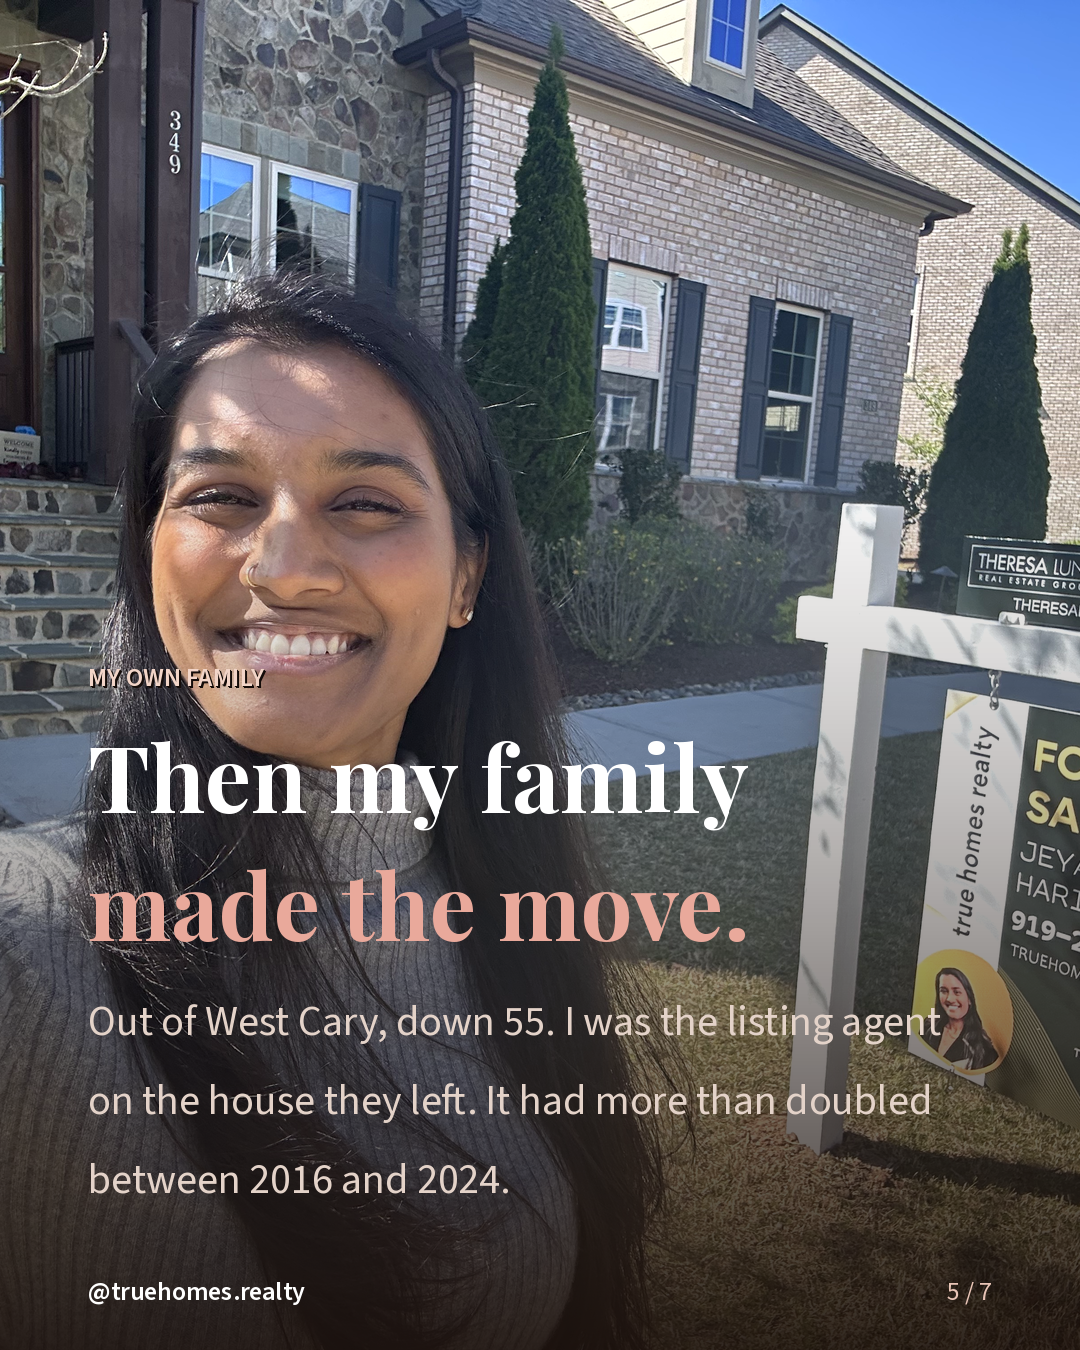
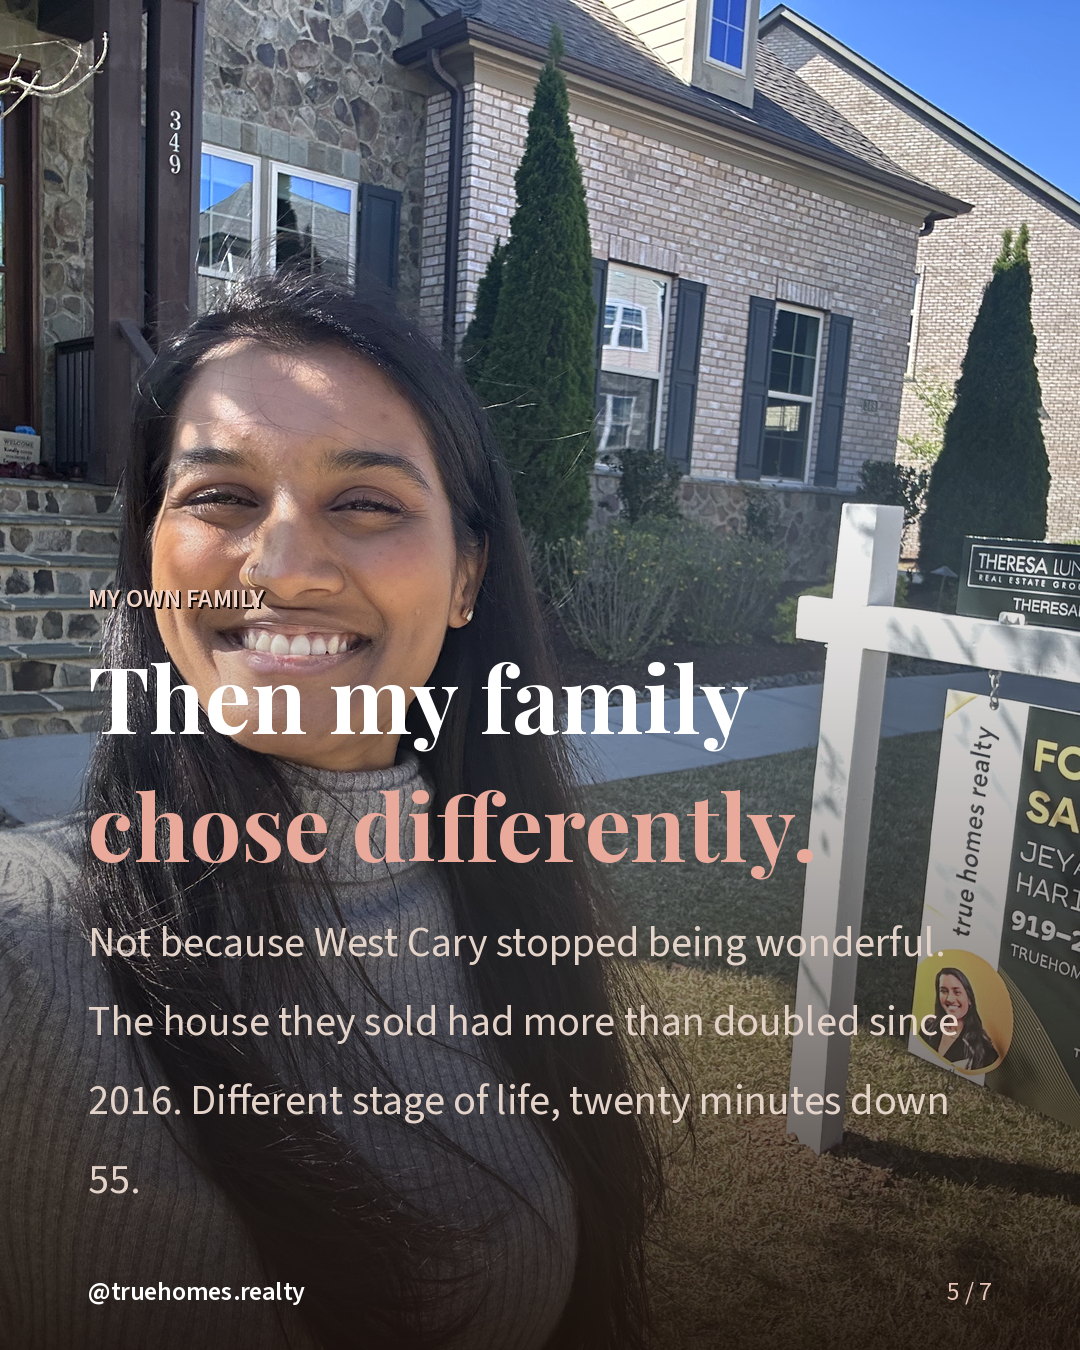
Never frame one town as the consolation prize for another
The Highway 55 draft implicitly cast West Cary as the place people leave. That
is wrong on the facts and wrong for the business — Cary is high quality, high
cost and highly coveted, especially West Cary, and she actively wants Cary
clients.

Adds a voice rule to config/brand.json and the carousel skill: every market
gets its strengths told on its own terms, movement is a different stage or fit
rather than an escape, and comparative put-downs are banned outright. It is a
business rule first and a Fair Housing one second, since running down whole
areas by comparison edges toward steering.

Carousel copy follows: slide 4 becomes "West Cary earned it", slide 5 reframes
the move as choosing differently rather than leaving, and the CTA now serves
people staying in Cary as readily as people looking down the corridor.

Also softens the knowledge base entry on Cary Towne Center so it reads as one
site that stalled rather than a mark against the town, which kept growing
straight through it.

Changed region(s): [[0.0611, 0.4356, 0.8861, 0.7156], [0.0917, 0.8089, 0.8861, 0.9022], [0.0611, 0.7467, 0.8861, 0.7778]]

diff --git a/knowledge/triangle-development.md b/knowledge/triangle-development.md
@@ -21,6 +21,13 @@ buildings, jobs and money. None of them may be turned into a claim about who a
 place is *for*. Growth, infrastructure and amenities — never demographics.
 Note especially that this file contains **no school-quality material**, by design.
 
+**No town is the consolation prize.** Every market here gets its own strengths
+told on their own terms. Cary is high quality, high cost and highly coveted —
+especially West Cary — and she actively wants Cary clients, so Cary is never
+the "before" in a before-and-after. Movement along the corridor is a different
+stage or a different fit, never an escape or a downgrade. Beyond being wrong
+commercially, comparative put-downs of whole areas edge toward steering.
+
 ---
 
 ## 1. The thirty-year arc
@@ -65,7 +72,7 @@ but not built* matters more than what is standing today.
   cited gap. `[V]`
 - **Cary median home price ≈ $580,000** as of early 2026, up modestly on
   2025. `[V]`
-- **Cary Towne Center is the cautionary tale.** Epic Games bought the mall to
+- **Cary Towne Center — one site that stalled.** Not a mark against Cary, which kept growing straight through it. Epic Games bought the mall to
   build a headquarters targeted for 2024. The rezoning application was withdrawn
   for inactivity in December 2024, the site still sat vacant in April 2026, and
   Epic announced roughly 1,000 layoffs in April 2026. `[V]`

diff --git a/.claude/skills/carousel/SKILL.md b/.claude/skills/carousel/SKILL.md
@@ -97,6 +97,21 @@ Two rules when using it:
 - **Date the claim** — "as of August 2026" — so it ages honestly instead of
   quietly becoming wrong.
 
+## Never talk down an area
+
+Every place she serves gets its pros highlighted on their own terms. **Cary is
+high quality, high cost and highly coveted — especially West Cary — and she
+wants Cary clients.** No town is ever the consolation prize for another, and no
+migration story is an escape: people move for a different stage or a different
+fit, and two places can both be excellent for different reasons.
+
+Banned framings: "priced out", "can't afford X so settle for Y", "X is
+overrated", "the smart money left X", "better value than X" used as a knock.
+
+This is a business rule first — she wants clients in all six markets — and a
+Fair Housing one second: running down whole areas by comparison edges toward
+steering.
+
 ## Hashtags
 
 5–7, never more. At least three hyperlocal to the exact place in the post.
